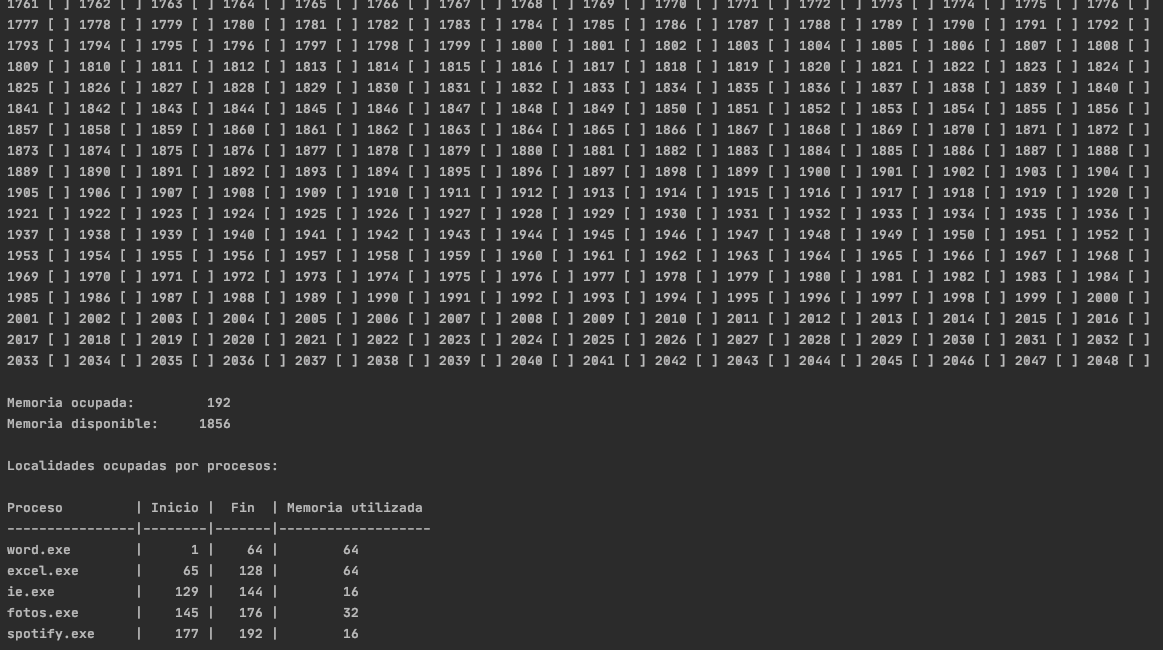
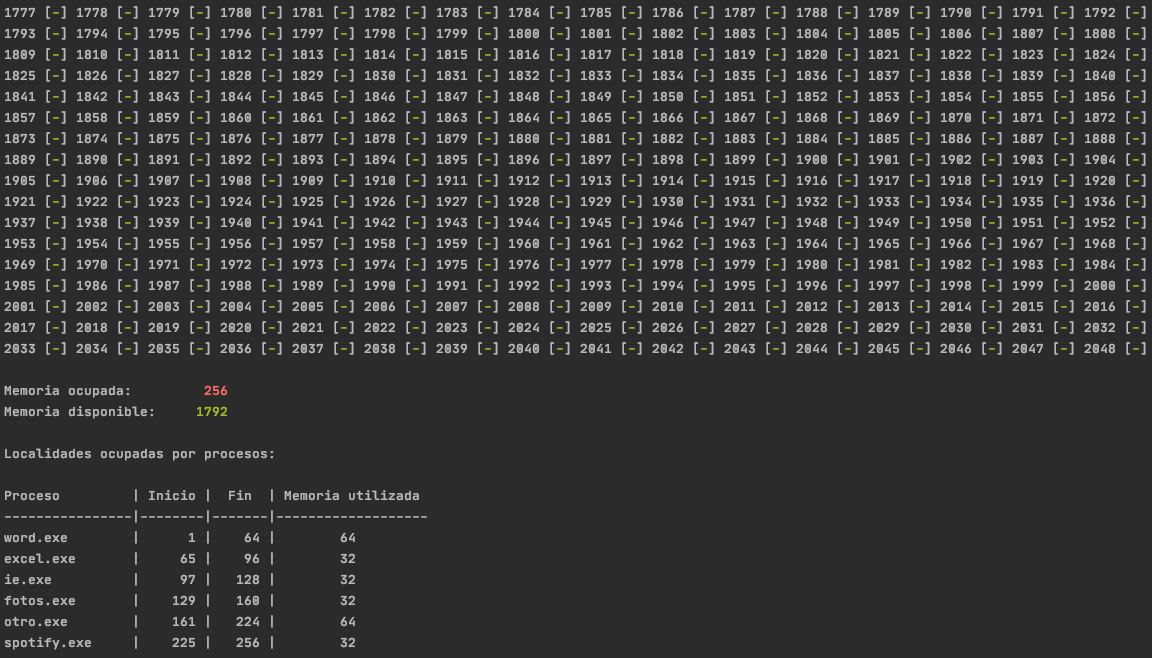
Mejorando interfaz de usuario.

Changed region(s): [[0.0, 0.0, 1.0, 0.9846]]

diff --git a/src/simulador/Administrador.java b/src/simulador/Administrador.java
@@ -2,11 +2,13 @@ package simulador;
 
 import java.util.*;
 
+import static colores.Colores.*;
+
 /**
  * Clase que simula el administrador de procesos.
  *
  * @author J Alfonso Martínez Baeza
- * @version 2.1.19102020
+ * @version 2.2.20102020
  */
 public class Administrador {
 
@@ -71,10 +73,10 @@ public class Administrador {
                 // Es necesario un condicional para poder salir del ciclo en caso de que haya memoria suficiente pero
                 // no sea contigua, ya que de ser así, entraríamos en un loop infinito.
                 if (memoria.getTablaMemoria()[actual].isVisitada()) {
-                    // Antes de salir del ciclo volvemos a marcar las localidades como NO visitadas para poder agregar
-                    // más procesos posteriormente y no tengamos problemas.
-                    for (Localidad l : memoria.getTablaMemoria()) {
-                        l.setVisitada(false);
+                    // Antes de salir del ciclo volvemos a marcar las localidades como NO visitadas para poder
+                    // visitarlas posteriormente.
+                    for (Localidad loc : memoria.getTablaMemoria()) {
+                        loc.setVisitada(false);
                     }
                     // Guardamos un indicador de que el proceso no puede crearse
                     sePuedeCrearProceso = false;
@@ -93,24 +95,27 @@ public class Administrador {
             if (sePuedeCrearProceso) {
                 System.out.print("\nNombre del proceso: ");
                 addProcess(new Proceso(sc.next(), id++, n, actual, actual + n));
-                System.out.println("Tamaño: " + n);
-                System.out.println("Guardado en las localidades [" + (actual + 1) + " - " + (actual + n) + "]");
+                System.out.println("Tamaño:\t" + colorear(n, ANSI_CYAN));
+                System.out.println("Localidades: [" + colorear((actual + 1), ANSI_CYAN) + " - "
+                        + colorear((actual + n), ANSI_CYAN) + "]");
                 actual += n;
             } else {
-                System.out.println("\nNo hay memoria contigua");
-                System.out.println("Memoria requerida:\t" + n);
-                System.out.println("Memoria disponible:\t" + memoria.memoriaDisponible);
+                System.out.println(colorear("\nNo hay memoria contigua", ANSI_YELLOW));
+                System.out.println("Memoria requerida:\t" + colorear(n, ANSI_CYAN));
+                System.out.println("Memoria disponible:\t" + colorear(memoria.memoriaDisponible, ANSI_CYAN));
                 System.out.println("\nRecomendaciones:");
-                System.out.println("* Intente con un proceso más pequeño ");
-                System.out.println("* Libere memoria ejecutando o matando procesos");
+                System.out.println(colorear("*", ANSI_RED) + " Libere memoria ejecutando o matando procesos");
                 sePuedeCrearProceso = true;
             }
         } else {
-            System.out.println("\nNo hay memoria suficiente");
-            System.out.println("Memoria requerida:\t" + n);
-            System.out.println("Memoria disponible:\t" + memoria.memoriaDisponible);
+            System.out.println(colorear("\nNo hay memoria suficiente", ANSI_RED));
+            System.out.println("Memoria requerida:\t" + colorear(n, ANSI_CYAN));
+            System.out.println("Memoria disponible:\t" + colorear(memoria.memoriaDisponible, ANSI_CYAN));
             System.out.println("\nRecomendaciones:");
-            System.out.println("* Libere memoria ejecutando o matando procesos");
+            if (memoria.memoriaDisponible > 0){
+                System.out.println(colorear("*", ANSI_RED) + " Intente con un proceso más pequeño ");
+            }
+            System.out.println(colorear("*", ANSI_RED) + " Libere memoria ejecutando o matando procesos");
         }
     }
 
@@ -150,12 +155,12 @@ public class Administrador {
      * Imprime en pantalla la información de los procesos listos.
      */
     public void verEstadoActual() {
-        System.out.printf("\nProcesos en espera de ser ejecutados: %6d", colaProcesos.size());
-        System.out.printf("\nProcesos terminados exitosamente: %10d", terminadosCorrectamente.size());
+        System.out.printf("\nProcesos en espera de ser ejecutados: " + ANSI_CYAN + "%6d" + ANSI_RESET, colaProcesos.size());
+        System.out.printf("\nProcesos terminados exitosamente: " + ANSI_CYAN + "%10d" + ANSI_RESET, terminadosCorrectamente.size());
         for (Proceso p : terminadosCorrectamente) {
             System.out.print("\n\t" + p.getNombre());
         }
-        System.out.printf("\nProcesos terminados antes de tiempo: %7d", procesosEliminados.size());
+        System.out.printf("\nProcesos terminados antes de tiempo: " + ANSI_CYAN + "%7d" + ANSI_RESET, procesosEliminados.size());
         for (Proceso p : procesosEliminados) {
             System.out.print("\n\t" + p.getNombre());
         }
@@ -167,18 +172,22 @@ public class Administrador {
      */
     public void verEstadoMemoria() {
         System.out.println("\nTabla de localidades de memoria:");
-        System.out.println("[ ] Localidad vacía");
-        System.out.println("[X] Localidad ocupada");
+        System.out.println("[" + colorear("-", ANSI_GREEN) + "] Localidad vacía");
+        System.out.println("[" + colorear("o", ANSI_RED) + "] Localidad ocupada");
 
         for (int i = 0; i < memoria.getTablaMemoria().length; i++) {
             if (i % 16 == 0) {
                 System.out.println();
             }
             System.out.printf("%4d ", i + 1);
-            System.out.printf("[%1s] ", memoria.getTablaMemoria()[i].getContenido());
+            if (memoria.getTablaMemoria()[i].getContenido() == 'X') {
+                System.out.printf("[" + ANSI_RED + "%1c" + ANSI_RESET + "] ", memoria.getTablaMemoria()[i].getContenido());
+            } else {
+                System.out.printf("[" + ANSI_GREEN + "%1c" + ANSI_RESET + "] ", memoria.getTablaMemoria()[i].getContenido());
+            }
         }
-        System.out.printf("\n\nMemoria ocupada: %11d", (memoria.memoriaTotal - memoria.memoriaDisponible));
-        System.out.printf("\nMemoria disponible: %8d\n", memoria.memoriaDisponible);
+        System.out.printf("\n\nMemoria ocupada: " + ANSI_RED + "%11d" + ANSI_RESET, (memoria.memoriaTotal - memoria.memoriaDisponible));
+        System.out.printf("\nMemoria disponible: " + ANSI_GREEN + "%8d\n" + ANSI_RESET, memoria.memoriaDisponible);
         System.out.println("\nLocalidades ocupadas por procesos:");
         System.out.print("\nProceso         | Inicio |  Fin  | Memoria utilizada");
         System.out.print("\n----------------|--------|-------|-------------------");
@@ -200,14 +209,13 @@ public class Administrador {
             for (Proceso p : colaProcesos) {
                 System.out.printf("%6d  |", p.getId());
                 if (p == colaProcesos.element()) {
-                    System.out.printf(" %-15s *", p.getNombre());
+                    System.out.printf(" %-15s" + colorear(" *", ANSI_RED), p.getNombre());
                 } else {
                     System.out.printf(" %-15s", p.getNombre());
                 }
-                //System.out.println("\n--------|--------------");
                 System.out.println();
             }
-            System.out.println("\n * Proceso activo");
+            System.out.println("\n" + colorear(" *", ANSI_RED) + " Proceso activo");
         } else {
             System.out.println("\nNo hay procesos en espera");
         }
@@ -230,12 +238,13 @@ public class Administrador {
                 p.setInstEjecutadas(ejecutadas + 5);
                 p.setInstRestantes(restantes - 5);
             }
-            System.out.println("\nEjecutando proceso " + p.getNombre());
-            System.out.println(p.getInstEjecutadas() + "/" + p.getInstTotales() + " instrucciones ejecutadas");
+            System.out.println("\nEjecutando proceso " + colorear(p.getNombre(), ANSI_GREEN));
+            System.out.println(colorear(p.getInstEjecutadas(), ANSI_CYAN) + "/" + p.getInstTotales() + " instrucciones ejecutadas");
             if (p.getInstRestantes() == 0) {
-                System.out.println("\nProceso " + p.getNombre() + " finalizado con éxito");
-                System.out.println("Localidades liberadas: [" + (p.getInicio() + 1) + " - " + p.getFin() + "]");
-                System.out.println("Se liberaron " + p.getEspacio() + " localidades de memoria");
+                System.out.println("\nProceso " + colorear(p.getNombre(), ANSI_GREEN) + " finalizado con éxito");
+                System.out.println("Se liberaron " + colorear(p.getEspacio(), ANSI_CYAN) + " localidades de memoria");
+                System.out.println("Localidades liberadas: [" + colorear((p.getInicio() + 1), ANSI_CYAN) + " - "
+                        + colorear(p.getFin(), ANSI_CYAN) + "]");
                 memoria.liberarMemoria(p);
                 actual = p.getInicio();
                 terminadosCorrectamente.add(p);
@@ -253,13 +262,13 @@ public class Administrador {
     public void verProcesoActual() {
         if (colaProcesos.size() > 0) {
             Proceso p = colaProcesos.element();
-            System.out.printf("\nNombre:%30s", p.getNombre());
-            System.out.printf("\nId:%34d", p.getId());
-            System.out.printf("\nInstrucciones totales:%15d", p.getInstTotales());
-            System.out.printf("\nInstrucciones ejecutadas:%12d", p.getInstEjecutadas());
-            System.out.printf("\nMemoria utilizada:%19d", p.getEspacio());
-            System.out.printf("\nLocalidad inicial:%19d", p.getInicio() + 1);
-            System.out.printf("\nLocalidad final:%21d", p.getFin());
+            System.out.printf("\nId:" + ANSI_YELLOW + "%34d" + ANSI_RESET, p.getId());
+            System.out.printf("\nNombre:" + ANSI_GREEN + "%30s" + ANSI_RESET, p.getNombre());
+            System.out.printf("\nInstrucciones totales:" + ANSI_CYAN + "%15d" + ANSI_RESET, p.getInstTotales());
+            System.out.printf("\nInstrucciones ejecutadas:" + ANSI_CYAN + "%12d" + ANSI_RESET, p.getInstEjecutadas());
+            System.out.printf("\nMemoria utilizada:" + ANSI_CYAN + "%19d" + ANSI_RESET, p.getEspacio());
+            System.out.printf("\nLocalidad inicial:" + ANSI_CYAN + "%19d" + ANSI_RESET, p.getInicio() + 1);
+            System.out.printf("\nLocalidad final:" + ANSI_CYAN + "%21d" + ANSI_RESET, p.getFin());
             System.out.println();
         } else {
             System.out.println("\nNo hay procesos en espera");
@@ -272,10 +281,10 @@ public class Administrador {
     public void omitirProcesoActual() {
         if (colaProcesos.size() != 0) {
             Proceso p = colaProcesos.poll();
-            System.out.println("\nOmitiendo proceso " + p.getNombre());
+            System.out.println("\nOmitiendo proceso " + colorear(p.getNombre(),ANSI_PURPLE));
             colaProcesos.add(p);
             Proceso q = colaProcesos.element();
-            System.out.println("Proceso " + q.getNombre() + " listo para ejecutarse");
+            System.out.println("Proceso " + colorear(q.getNombre(),ANSI_GREEN) + " listo para ejecutarse");
         } else {
             System.out.println("\nNo hay procesos en espera");
         }
@@ -288,9 +297,10 @@ public class Administrador {
     public void matarProcesoActual() {
         if (colaProcesos.size() > 0) {
             Proceso p = colaProcesos.poll();
-            System.out.println("\nMatando proceso " + p.getNombre());
-            System.out.println("Localidades liberadas: [" + (p.getInicio() + 1) + " - " + p.getFin() + "]");
-            System.out.println("Se liberaron " + p.getEspacio() + " localidades de memoria");
+            System.out.println("\nMatando proceso " + colorear(p.getNombre(), ANSI_GREEN));
+            System.out.println("Se liberaron " + colorear(p.getEspacio(), ANSI_CYAN) + " localidades de memoria");
+            System.out.println("Localidades liberadas: [" + colorear((p.getInicio() + 1), ANSI_CYAN) + " - "
+                    + colorear(p.getFin(), ANSI_CYAN) + "]");
             memoria.liberarMemoria(p);
             actual = p.getInicio();
             procesosEliminados.add(p);

diff --git a/src/colores/Colores.java b/src/colores/Colores.java
@@ -1,0 +1,56 @@
+package colores;
+
+/**
+ * Contiene los códigos de colores para utilizar en el terminal.
+ *
+ * @author J Alfonso Martínez Baeza
+ * @version 1.0.20102020
+ */
+public class Colores {
+    /**
+     * Rojo.
+     */
+    public static final String ANSI_RED = "\u001B[31m";
+    /**
+     * Verde.
+     */
+    public static final String ANSI_GREEN = "\u001B[32m";
+    /**
+     * Amarillo.
+     */
+    public static final String ANSI_YELLOW = "\u001B[33m";
+    /**
+     * Morado.
+     */
+    public static final String ANSI_PURPLE = "\u001B[35m";
+    /**
+     * Cyan.
+     */
+    public static final String ANSI_CYAN = "\u001B[36m";
+    /**
+     * Default.
+     */
+    public static final String ANSI_RESET = "\u001B[0m";
+
+    /**
+     * Recibe una cadena de texto y el código de color y devuelve la cadena coloreada.
+     *
+     * @param palabra Cadena
+     * @param color   Código de color
+     * @return Cadena coloreada
+     */
+    public static String colorear(String palabra, String color) {
+        return (color + palabra + ANSI_RESET);
+    }
+
+    /**
+     * Recibe una variable y el código de color y devuelve la cadena coloreada.
+     *
+     * @param variable Cadena
+     * @param color    Código de color
+     * @return Variable coloreada
+     */
+    public static String colorear(int variable, String color) {
+        return (color + variable + ANSI_RESET);
+    }
+}

diff --git a/src/simulador/Memoria.java b/src/simulador/Memoria.java
@@ -4,14 +4,14 @@ package simulador;
  * Clase que simula la memoria y sus operaciones.
  *
  * @author J Alfonso Martínez Baeza
- * @version 2.1.19102020
+ * @version 2.2.20102020
  */
 public class Memoria {
 
     /**
      * Memoria total, su valor no cambiará a lo largo de la ejecución.
      */
-    protected int memoriaTotal;
+    protected final int memoriaTotal;
     /**
      * Variable que nos indica la cantidad de memoria que tenemos disponible para crear nuevos procesos.
      */
@@ -60,7 +60,7 @@ public class Memoria {
     public void liberarMemoria(Proceso p) {
         memoriaDisponible += p.getEspacio();
         for (int i = p.getInicio(); i < p.getFin(); i++) {
-            tablaMemoria[i].setContenido("");
+            tablaMemoria[i].setContenido('-');
             tablaMemoria[i].setOcupada(false);
         }
     }
@@ -72,7 +72,7 @@ public class Memoria {
      */
     public void llenarMemoria(Proceso p) {
         for (int i = p.getInicio(); i < p.getFin(); i++) {
-            tablaMemoria[i].setContenido("X");
+            tablaMemoria[i].setContenido('X');
             tablaMemoria[i].setOcupada(true);
         }
     }

diff --git a/src/simulador/Localidad.java b/src/simulador/Localidad.java
@@ -18,7 +18,7 @@ public class Localidad {
     /**
      * Guarda una "X" si la localidad está ocupada y una cadena vacía en caso contrario.
      */
-    private String contenido;
+    private char contenido;
 
     /**
      * Cada nueva localidad se inicializa como no visitada, no ocupada y sin ningún contenido.
@@ -26,7 +26,7 @@ public class Localidad {
     public Localidad(){
         visitada = false;
         ocupada = false;
-        contenido = "";
+        contenido = '-';
     }
 
     /**
@@ -65,7 +65,7 @@ public class Localidad {
      * Método getter del contenido de la localidad de memoria.
      * @return Devuelve una X si esta ocupada y un espacio en blanco en caso contrario.
      */
-    public String getContenido() {
+    public char getContenido() {
         return contenido;
     }
 
@@ -73,7 +73,7 @@ public class Localidad {
      * Método setter del contenido de la localidad.
      * @param contenido Recibe el nuevo contenido de la localidad de memoria.
      */
-    public void setContenido(String contenido) {
+    public void setContenido(char contenido) {
         this.contenido = contenido;
     }
 }

diff --git a/src/simulador/Principal.java b/src/simulador/Principal.java
@@ -6,7 +6,7 @@ import java.util.*;
  * Clase que simula la ejecución de procesos en un sistema operativo.
  *
  * @author J Alfonso Martínez Baeza
- * @version 2.1.19102020
+ * @version 2.2.20102020
  */
 public class Principal {
 

diff --git a/README.md b/README.md
@@ -12,6 +12,8 @@ Si al momento de crear un proceso no hay localidades contiguas de memoria sufici
 
 También se muestra un mensaje en caso de que no haya la memoria suficiente para crear el proceso, con la información de la memoria disponible y recomendaciones para continuar con el programa.
 
+![Captura 1.4](screenshots/1_4.png)
+
 ---
 
 Ejemplo 1 (listas de procesos vacías):
